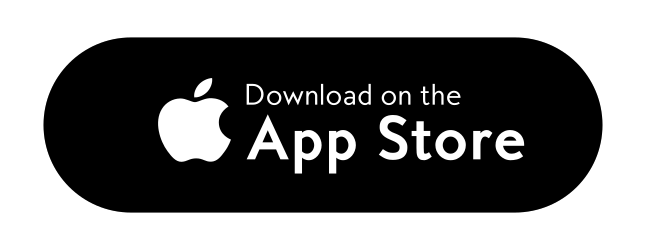
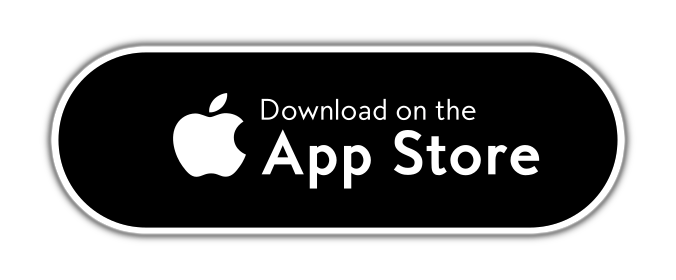
platform image update, readme update to showcase various platforms

Changed region(s): [[0.0619, 0.14, 0.9598, 0.868], [0.3406, 0.336, 0.8359, 0.7], [0.2477, 0.308, 0.3406, 0.644]]

diff --git a/README.md b/README.md
@@ -9,7 +9,13 @@ Built for **speed** and **efficiency**. Perfect for productivity on the go!
 - **Lightweight & optimized** (no lag, fast startup)  
 - **Clean UI** with dark/light mode  
 
-Try it now and boost your workflow! Contributions welcome.  
+Try it now and boost your workflow! Contributions welcome. 
+
+<div align="center">
+   <img src=".github/assets/get-it-on-google-play.png" alt="Get it on Google Play" height=100>
+   <img src=".github/assets/get-it-on-f-droid.png" alt="Get it on F-Droid" height=100>
+   <img src=".github/assets/download-on-the-app-store.png" alt="Download on the App Store" height=100>
+</div>
 
 ## Stats
 <div align="center">
